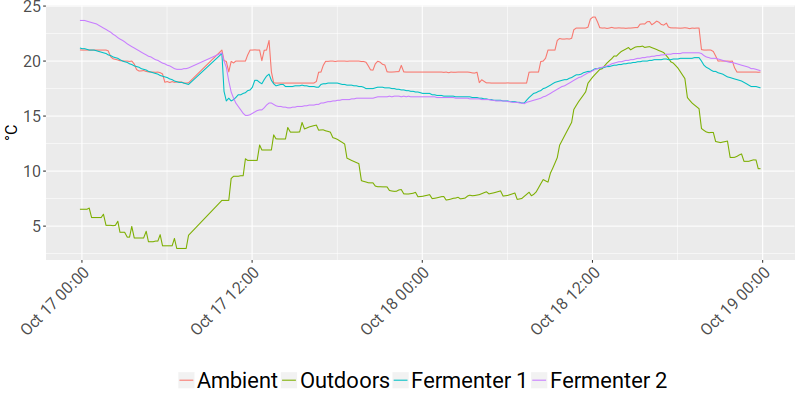
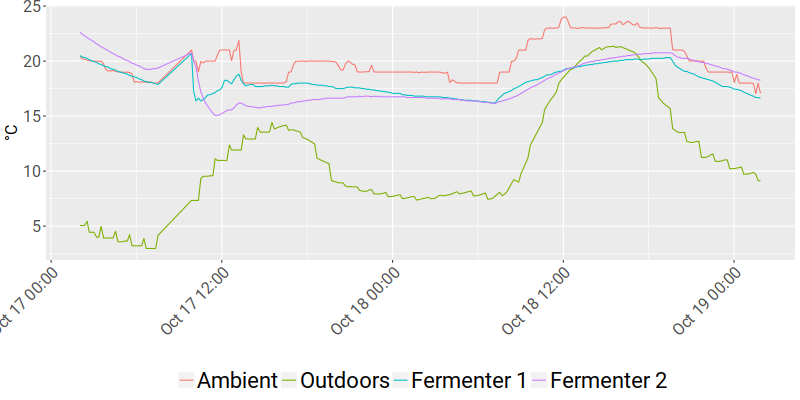
Update live temperature on site

diff --git a/temperature.js b/temperature.js
@@ -1,1 +1,1 @@
-document.write("<h4>Inside Temperature: 19.0°C</h4><h4>Outside Temperature: 10.22°C</h4><h4>Fermenter 1 Temperature: 17.56°C</h4><h4>Fermenter 2 Temperature: 19.13°C</h4><h4>Inside Humidity: 47.03%</h4><h4>Outside Humidity: 83.0%</h4><br>Last update: 2017-10-18 23:50:52");
+document.write("<h4>Inside Temperature: 17.09°C</h4><h4>Outside Temperature: 9.13°C</h4><h4>Fermenter 1 Temperature: 16.63°C</h4><h4>Fermenter 2 Temperature: 18.25°C</h4><h4>Inside Humidity: 50.09%</h4><h4>Outside Humidity: 87.0%</h4><br>Last update: 2017-10-19 01:51:33");
